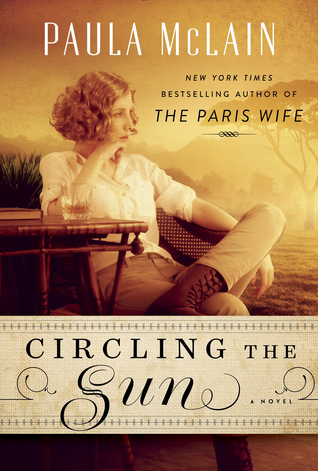
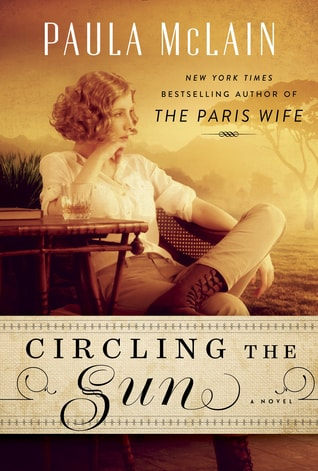
Compress images

diff --git a/content/book/talk_about_race.md b/content/book/talk_about_race.md
@@ -1,0 +1,11 @@
+---
+title: "So You Want to Talk About Race"
+author: "Ijeoma Oluo"
+image: "talk_about_race.jpg"
+pages: 248
+fiction: false
+tags: ["race", "social justice", "social studies"]
+host: "Michi"
+date: "2018-05-18"
+buy_link: "http://a.co/559lQwl"
+---

diff --git a/content/_index.md b/content/_index.md
@@ -1,5 +1,5 @@
 ---
-title: "Librum: For Books' Sake"
+title: "Literary Pika"
 featured_image: '/images/book_shelf.jpeg'
 description: "We've got you covered"
 ---
